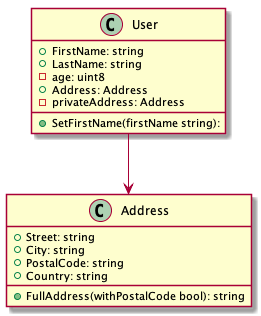
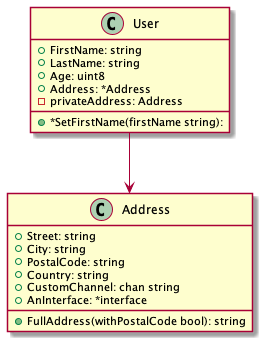
Rebuild the test files and update README.md

diff --git a/test/address/models/address.go b/test/address/models/address.go
@@ -2,12 +2,12 @@ package models
 
 type (
 	Address struct {
-		Street     string
-		City       string
-		PostalCode string
-		Country    string
-		Bla        chan string
-		A          *interface{}
+		Street        string
+		City          string
+		PostalCode    string
+		Country       string
+		CustomChannel chan string
+		AnInterface   *interface{}
 	}
 )
 

diff --git a/README.md b/README.md
@@ -49,37 +49,43 @@ For example we have to files in the directory `testGraph`.
 
 ```go
 // address.go
-package testGraph
+package models
 
 type (
 	Address struct {
-		Street     string
-		City       string
-		PostalCode string
-		Country    string
+		Street        string
+		City          string
+		PostalCode    string
+		Country       string
+		CustomChannel chan string
+		AnInterface   *interface{}
 	}
 )
 
 func (address Address) FullAddress(withPostalCode bool) string {
-    return ""
+	return ""
 }
 ```
 
 ```go
 // user.go
-package testGraph
+package models
+
+import "github.com/bykof/go-plantuml/test/address/models"
 
 type (
 	User struct {
 		FirstName      string
 		LastName       string
-		age            uint8
-		Address        Address
-		privateAddress Address
+		Age            uint8
+		Address        *models.Address
+		privateAddress models.Address
 	}
 )
 
-func (user *User) SetFirstName(firstName string) {}
+func (user *User) SetFirstName(firstName string) {
+	user.FirstName = firstName
+}
 ```
 
 Then we run `go-plantuml generate` or `go-plantuml generate -d . -o graph.puml`.
